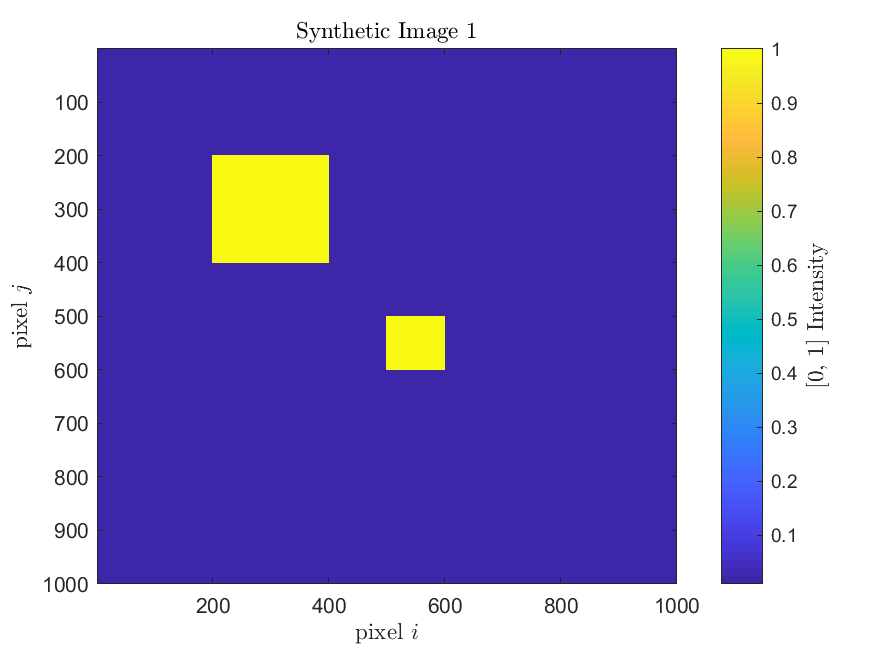
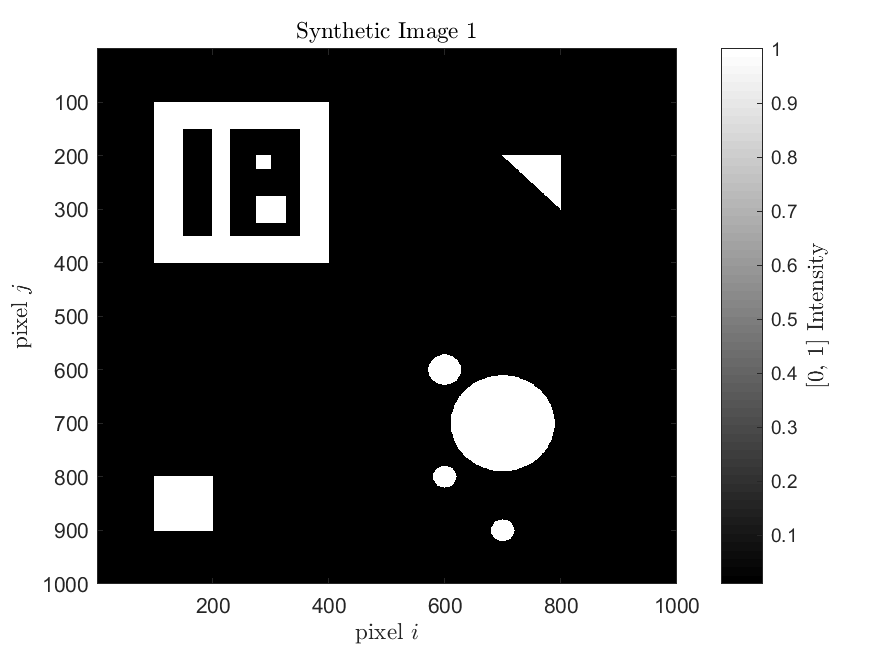
lots of image generation

diff --git a/real_images.m b/real_images.m
@@ -12,9 +12,8 @@ addpath('./fuzme_matlab')
 % [l, uData, vData] = get_segmentation('./test_cases/density_2_dots/original.png', ...
 %     3/2, 2, 1/2, 2, 70, 3, 3, true);
 
-[l, uData, vData] = get_segmentation('./real_images/brain/original.png', ...
+[l, uData, vData] = get_segmentation('./real_images/brain/original2.png', ...
     3/2, 2, 1/2, 4, 70, 5, false);
-
 % [l, uData, vData] = get_segmentation('./test_cases/pattern_12_dots/original.png', ...
 %     3/2, 2, 1/2, 11, 80, 12, 12, true);
 
@@ -98,8 +97,9 @@ function [l, uData, vData] = get_segmentation(path, P, Q, R, K, maxL, ...
     % RETRIEVE EMBEDDING & KMEANS -----------------------------------------
     [uData, vData] = get_embedding(results, K, R);
     figure(3)
+    s = ['Segmentation using $\{u_i\}$ : p = ' num2str(P) ' , q = ' num2str(Q) ' , r = ' num2str(R)]
     clusters = fuzzy_cluster(uData, K, num_clusters, ...
-        ['Segmentation using $\{u_i\}$ : p = ' num2str(P) ' , q = ' num2str(Q) ' , r = ' num2str(R)])
+        ['p = ' num2str(P) ' , q = ' num2str(Q) ' , r = ' num2str(R)])
     temp=[dest,filesep,'segmentation_', erase(num2str(P), '.'),...
         '_',erase(num2str(Q), '.'),'_',erase(num2str(R), '.'),'.png'];
     saveas(gca,temp);
@@ -127,17 +127,16 @@ function[clusters] =  fuzzy_cluster(data, K, num_clusters, s)
     clusters = reshape(out, [length(data), length(data), num_clusters]);
     for k = 1:num_clusters
         cluster_k = clusters(:, :, k);
-        imagesc(cluster_k)
+        subplot(2, 3, k); imagesc(cluster_k)
         title(s, 'Interpreter', 'Latex', 'Fontsize', 14)
         xlabel('pixel $i$', 'Interpreter', 'Latex', 'Fontsize', 14)
         ylabel('pixel $j$', 'Interpreter', 'Latex', 'Fontsize', 14)
         c = colorbar;
         c.Limits = [0, 1];
         colorTitleHandle = get(c,'Title');
-        titleString = 'Cluster Probability';
-        set(colorTitleHandle ,'String',titleString, 'Interpreter', 'Latex', ...
-            'Fontsize', 14);
-        figure(k + 3)
+%         titleString = 'Cluster Probability';
+%         set(colorTitleHandle ,'String',titleString, 'Interpreter', 'Latex', ...
+%             'Fontsize', 14);
     end
 
 end

diff --git a/validation_fast.m b/validation_fast.m
@@ -20,7 +20,7 @@ params = [...
 for m = 1:9
     row = params(m, :); 
     [l, QC, VC, QT, VT] = evaluate_segmentation(row(1), row(2), row(3), 60, 4, ...
-        false, 0.03); 
+        true, 0.03);
     accuracies(m, 1:3) = row; 
     accuracies(m, 4) = QC; 
     accuracies(m, 5) = VC; 
@@ -30,7 +30,8 @@ end
 
 disp('accuracies:')
 accuracies
-writematrix(accuracies,'accuracies.csv') 
+%writematrix(accuracies,'accuracies.csv') 
+csvwrite('accuracies.csv', accuracies)
 
 % Takes in: 
 %  P: the value of p to be used in the normalization

diff --git a/generate_test_img.m b/generate_test_img.m
@@ -11,6 +11,7 @@ end
 function [] = plot_img(img, plot_title)
     figure()
     imagesc(img)
+    colormap(gray)
     c = colorbar; 
     ylabel(c, '[0, 1] Intensity', 'Interpreter', 'Latex', 'Fontsize', 11)
     xlabel('pixel $i$', 'Interpreter', 'Latex', 'Fontsize', 11)
